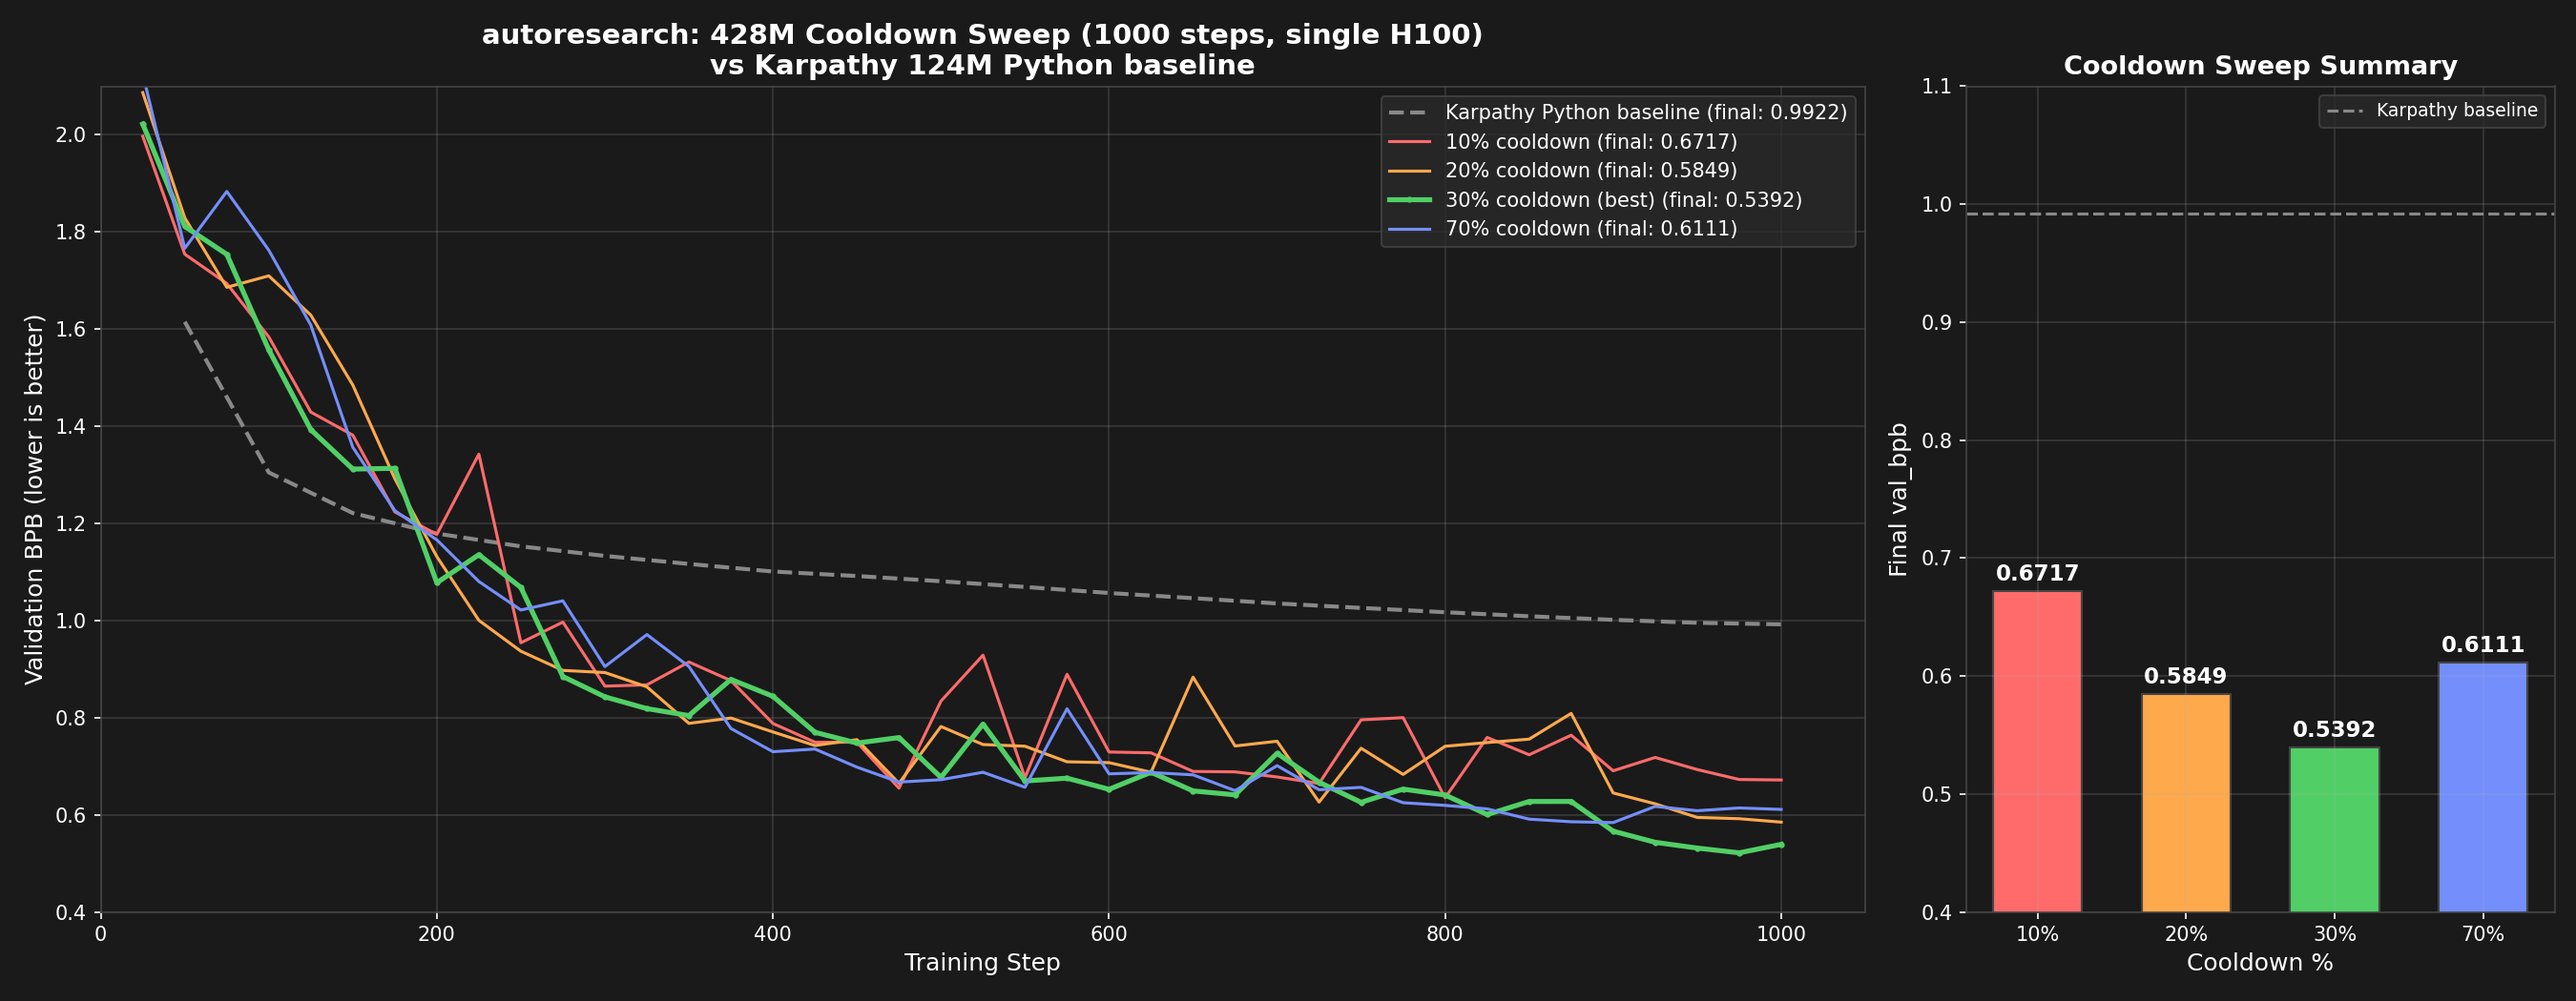
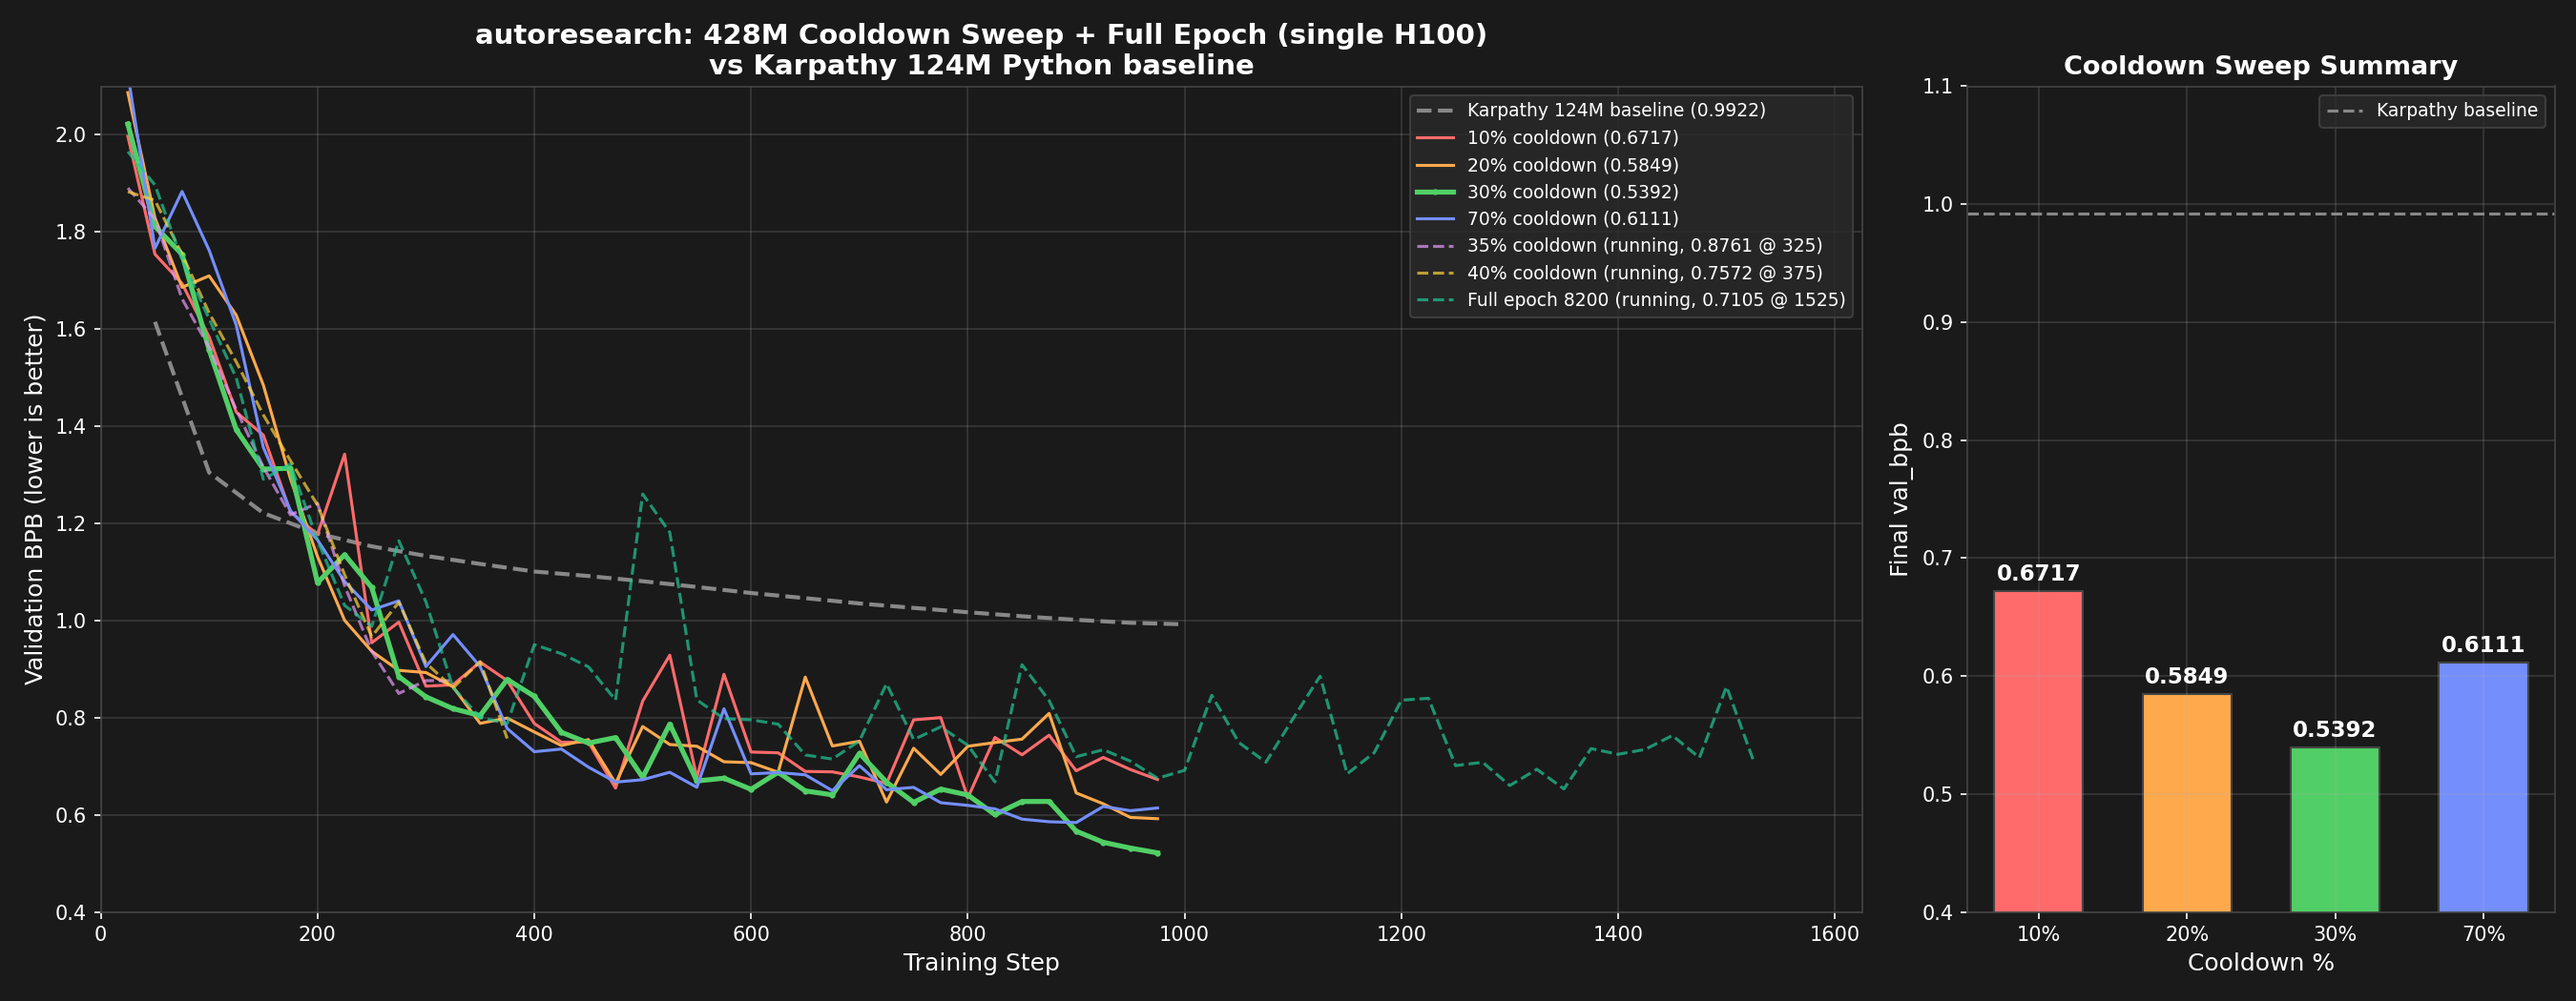
Update in-progress runs: 35%/40% cooldown at ~325, full epoch at 1525
Full epoch best val_bpb 0.6533 at step 1350, still at full LR.
35% and 40% cooldown fine sweep running to narrow the optimum around 30%.
Regenerated comparison plot with all in-progress curves.

diff --git a/README.md b/README.md
@@ -57,7 +57,10 @@ What we kept fixed: 1000 optimizer steps, 524,288 tokens/step, single H100, same
 
 ### In progress
 
-- **Full epoch (8200 steps):** 428M model, 4.3B tokens (~10 tokens/param), 30% cooldown. Step ~1105/8200, val_bpb 0.7083 and falling (still at full LR — cooldown doesn't start until step 5740).
+- **Full epoch (8200 steps):** 428M model, 4.3B tokens (~10 tokens/param), 30% cooldown. Step ~1525/8200, val_bpb 0.6533 best so far (still at full LR — cooldown doesn't start until step 5740).
+- **Cooldown fine sweep** on 428M at 1000 steps (narrowing around 30% optimum):
+  - 35% cooldown — step ~325, val_bpb 0.8499 (still at full LR)
+  - 40% cooldown — step ~375, val_bpb 0.7572 (still at full LR)
 
 ### Cooldown sweep (complete)
 
